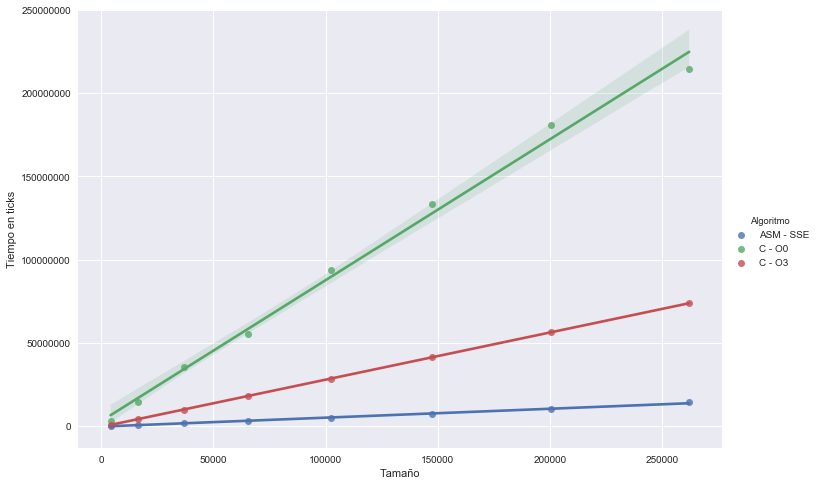
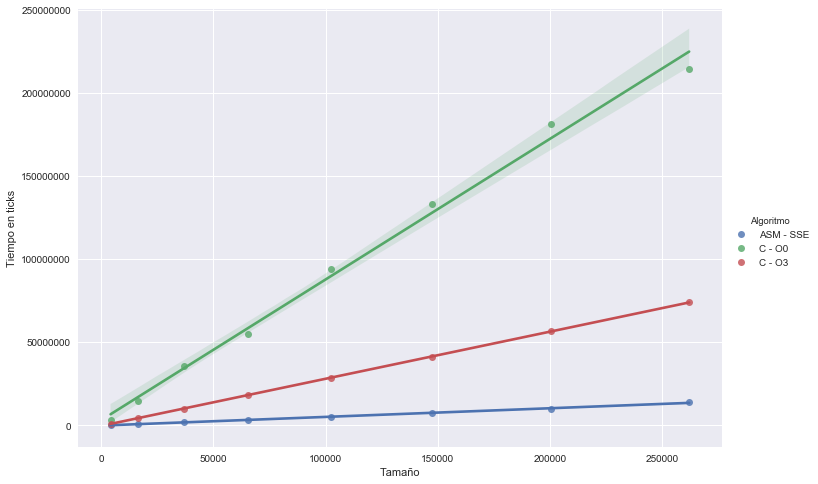
Quitar ultima imagen sin O3

diff --git a/informe/max.tex b/informe/max.tex
@@ -72,19 +72,12 @@ Ya conseguido el máximo, ahora tenemos que realizar la combinación lineal con 
 \subsection{Análisis preeliminar}
 \subsubsection*{Comparación de rendimiento de ASM vs C}
 Como en los otros filtros, corrimos una serie de tests para las mismas imágenes en diferentes tamaños. Primero vamos a comparar la implementación de C contra la de ASM.
-\begin{center} 
-\includegraphics[scale=0.5]{img/maxCloser_CvsASM.png}
+
+\begin{center}
+	\includegraphics[scale=0.5]{img/maxCloser_CvsASMvsO3.png}
 \end{center}
 
-Podemos ver claramente como el filtro implementado en ASM corre más rápido que en C, de hecho, al incrementar el tamaño de la imagen la diferencia es aún más notable. Esto es un comportamiento esperable ya que en C estamos yendo a buscar el pixel a memoria por cada pixel del kernel, en cambio en ASM con las instrucciones SIMD cada 7 pixeles lo pedimos 2 veces. Además, en ASM aprovechamos y hacemos las cuentas para el pixel destino en paralelo. 
-
-A la hora de compilar el código en C, se pueden aplicar optimizaciones, el compilador interpreta el código y trata de mejorar nuestro codigo potencialmente. Una de estas es aplicando el flag O3 a la hora de compilar. Comparemos el mismo set de test anterior pero ahora con el flag O3 activado.
-
-\begin{center} 
-\includegraphics[scale=0.5]{img/maxCloser_CvsASMvsO3.png}
-\end{center}
-
-Si bien hay una amplia mejora en la implementación de C sin el flag O3 contra la que tiene el flag activado, no llega a mejorar la versión de ASM. 
+Podemos ver claramente como el filtro implementado en ASM corre más rápido que en C, de hecho, al incrementar el tamaño de la imagen la diferencia es aún más notable. Si bien hay una amplia mejora al compilar con optimizaciones O3, no llega a mejorar la versión de ASM. Esto es un comportamiento esperable ya que en C estamos yendo a buscar el pixel a memoria por cada pixel del kernel, en cambio en ASM con las instrucciones SIMD cada 7 pixeles lo pedimos 2 veces. Además, en ASM aprovechamos y hacemos las cuentas para el pixel destino en paralelo.
 
 \subsection{Experimantación}
 Queremos ver cómo impacta en ambas implementaciones si agrandamos el tamaño de kernel. Vamos a correr los mismos tests que antes, pero ahora en vez que del kernel sea 7x7 será de 11x11.
@@ -92,9 +85,9 @@ Queremos ver cómo impacta en ambas implementaciones si agrandamos el tamaño de
 Nuestra hipótesis, es que esta medida va a afectar con más contundencia a la implementación de C, si bien en ASM va a tardar más, en relación al kernel mas chico, no le va afectar tanto. Esto es debido a que, en C trae cada pixel del kernel uno por vez, y como son casi 2.5 veces más, la cantidad de píxeles en el kerenel, esperamos una performance peor en este orden. Pero en ASM aprovechando la paralelización de datos, levantamos 11 píxeles con 3 llamadas a memoria nada más.
 
 \begin{center} 
-\includegraphics[scale=0.5]{img/maxCloser_KERNEL.png}
-\includegraphics[scale=0.5]{img/maxCloser_KERNEL_ASM.png}
-\includegraphics[scale=0.5]{img/maxCloser_KERNEL_C.png}
+	\includegraphics[scale=0.5]{img/maxCloser_KERNEL.png}
+	\includegraphics[scale=0.5]{img/maxCloser_KERNEL_ASM.png}
+	\includegraphics[scale=0.5]{img/maxCloser_KERNEL_C.png}
 \end{center}
 
 Si observamos los gráficos, podemos ver como en C con el kernel de 11x11 tarda casi 2,5 veces más, como la relación de diferencia de pixeles en los kernels, y para ASM hay nada mas una diferencia de 1,2 y 1,4 para instancias más grandes. Como habíamos predicho en la hipótesis, este cambio en el tamaño del kernel, afectó bastante más a la implementación de C que a la de ASM.
